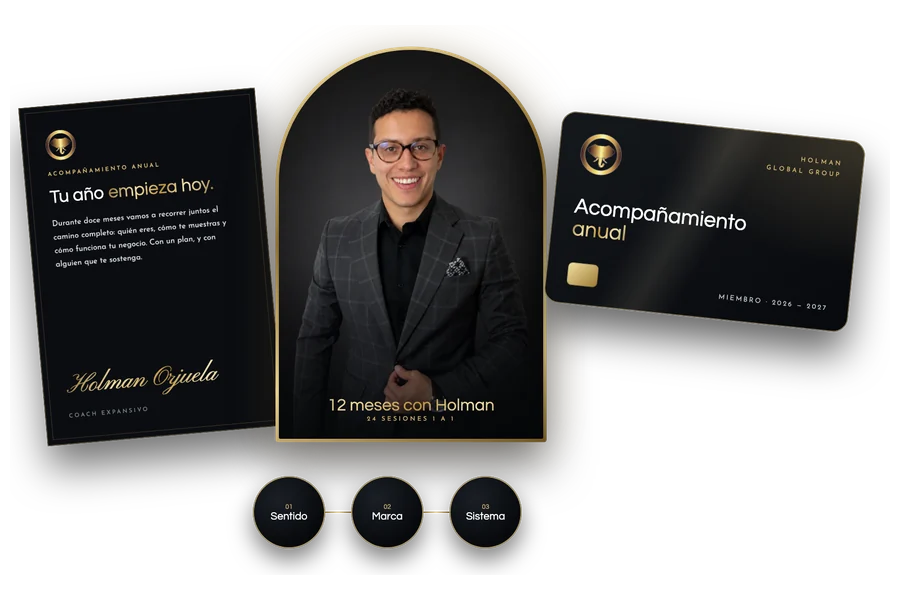
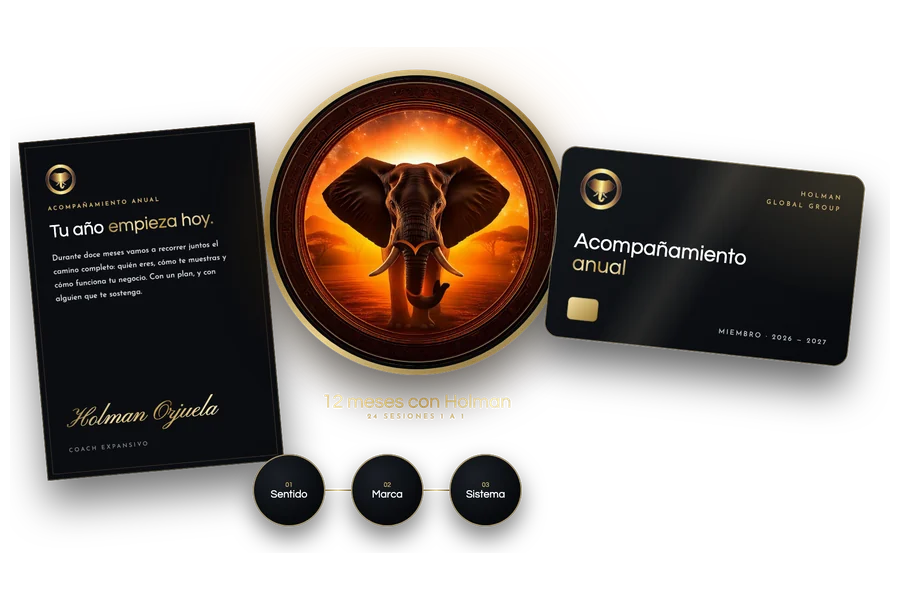
feat(tienda): Anual con el Corazón de Elefante y sin aviso de descuento en Empresa
- La imagen del Anual cambia el retrato en arco por el arte del Corazón de
  Elefante en un medallón dorado.
- El aviso del 10% de ECOS sale solo en Emprendo: DelegaWork no lleva el
  descuento. Los textos dicen «productos de HGG» en vez de «toda la tienda».

diff --git a/scripts/mockups/entrada.html b/scripts/mockups/entrada.html
@@ -157,6 +157,13 @@
   .medalla em { display: block; font-style: normal; font-family: var(--disp); font-size: 12px; color: var(--champan); }
   .medalla b { font-family: var(--disp); font-weight: 400; font-size: 19px; }
   .medallas i { width: 46px; height: 2px; background: linear-gradient(90deg, #8a6a2e, #f3dfa2, #8a6a2e); }
+
+  .medallon { position: absolute; border-radius: 50%; padding: 10px; background: linear-gradient(160deg, #f3dfa2, #8a6a2e 40%, #e9cf8a 70%, #6e5322); box-shadow: 0 40px 80px rgba(0,0,0,.6), 0 0 120px rgba(240,150,40,.18); }
+  .medallon::before { content: ""; position: absolute; inset: 22px; border-radius: 50%; box-shadow: inset 0 0 0 1.5px rgba(243,223,162,.55); z-index: 2; pointer-events: none; }
+  .medallon img { display: block; width: 100%; height: 100%; border-radius: 50%; object-fit: cover; border: 6px solid #07090c; }
+  .medallon-pie { position: absolute; text-align: center; }
+  .medallon-pie b { display: block; font-family: var(--disp); font-weight: 400; font-size: 34px; }
+  .medallon-pie span { font-size: 12px; letter-spacing: .34em; text-transform: uppercase; color: var(--champan); }
 </style>
 </head>
 <body>
@@ -292,16 +299,14 @@
     <span class="firma-h oro-txt">Holman Orjuela</span>
     <small>Coach expansivo</small>
   </div>
-  <div class="arco" style="left:470px;top:60px;width:480px;height:700px">
-    <img src="../../public/holman.webp" alt="">
-    <div class="arco-pie"><b class="oro-txt">12 meses con Holman</b><span>24 sesiones 1 a 1</span></div>
-  </div>
+  <div class="medallon" style="left:450px;top:40px;width:540px;height:540px"><img src="../../public/corazon-elefante.jpg" alt=""></div>
+  <div class="medallon-pie" style="left:420px;top:610px;width:600px"><b class="oro-txt">12 meses con Holman</b><span>24 sesiones 1 a 1</span></div>
   <div class="socio" style="left:960px;top:200px;transform:rotate(6deg)">
     <div class="socio-top"><img src="../../public/logo-elefante.png" alt=""><span>Holman<br>Global Group</span></div>
     <h4>Acompañamiento<br><span class="oro-txt">anual</span></h4>
     <div class="socio-pie"><span class="chip-oro"></span><span>Miembro · 2026 — 2027</span></div>
   </div>
-  <div class="medallas" style="left:430px;top:820px">
+  <div class="medallas" style="left:430px;top:720px">
     <div class="medalla"><div><em>01</em><b>Sentido</b></div></div><i></i>
     <div class="medalla"><div><em>02</em><b>Marca</b></div></div><i></i>
     <div class="medalla"><div><em>03</em><b>Sistema</b></div></div>

diff --git a/src/components/tienda.tsx b/src/components/tienda.tsx
@@ -1281,16 +1281,19 @@ export function Tienda() {
           </h1>
 
           <div className="tienda-sub">
-            {esMiembro ? (
+            {/* Oct 2026 (Holman): el aviso del descuento de ECOS va solo con
+                Emprendo. DelegaWork no lleva el descuento (no se cobra aquí y
+                no dan los números), así que en Empresa no se promete. */}
+            {perfil === "emprendedor" && (esMiembro ? (
               <p className="tienda-miembro">
                 Eres miembro de ECOS: los precios ya tienen tu {pctMiembro}% de descuento.
               </p>
             ) : (
               <p className="tienda-miembro">
-                Miembros de ECOS: {pctMiembro}% de descuento en toda la tienda.{" "}
+                Miembros de ECOS: {pctMiembro}% de descuento en los productos de HGG.{" "}
                 <a href={CLUB.landing}>Conoce el club</a>
               </p>
-            )}
+            ))}
             <div className="tienda-moneda" role="group" aria-label="Seleccionar moneda">
               {(["USD", "EUR"] as const).map((c) => (
                 <button
@@ -1415,7 +1418,7 @@ export function Tienda() {
               </p>
               <ul className="tienda-item-features">
                 <li><CheckIcon />{ECOS.pruebaDias} días gratis, sin tarjeta</li>
-                <li><CheckIcon />{pctMiembro}% de descuento en toda la tienda</li>
+                <li><CheckIcon />{pctMiembro}% de descuento en los productos de HGG</li>
               </ul>
               <div className="tienda-item-bottom">
                 <div className="tienda-item-price-row">
